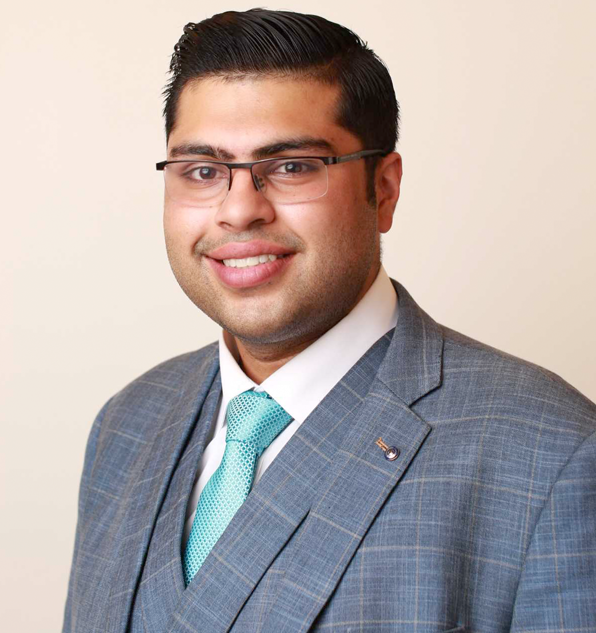
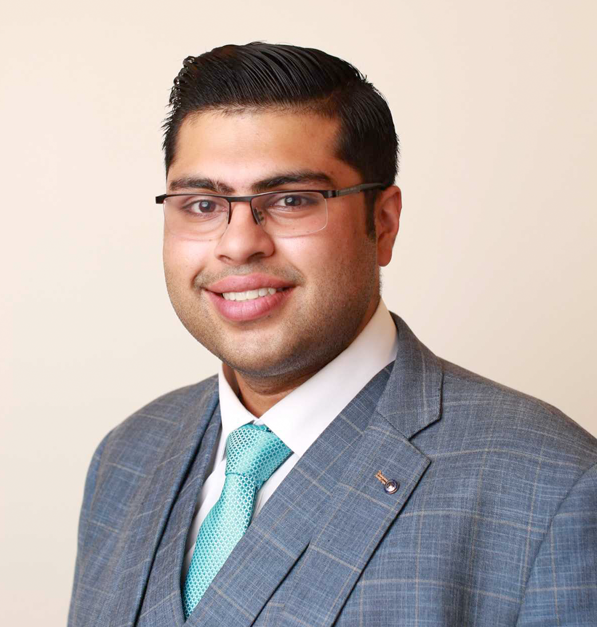
added vaelries picture

diff --git a/index.html b/index.html
@@ -448,7 +448,7 @@
             <div class="col-sm-4">
                 <div class="team-box xs-margin-30px-bottom">
                     <div class="team-image">
-                        <img src="images/team-two.jpg" alt="image">
+                        <img src="images/v.png" alt="image">
                     </div>
                     <div class="extend-tag">
                         <div class="flip">
